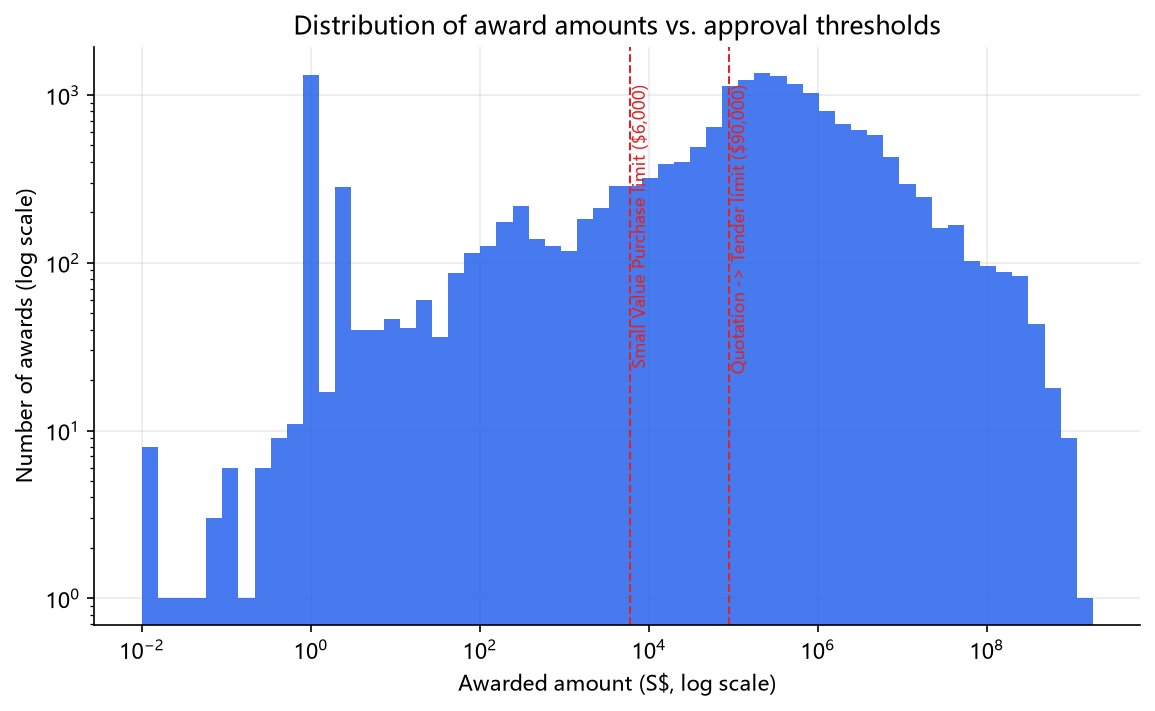
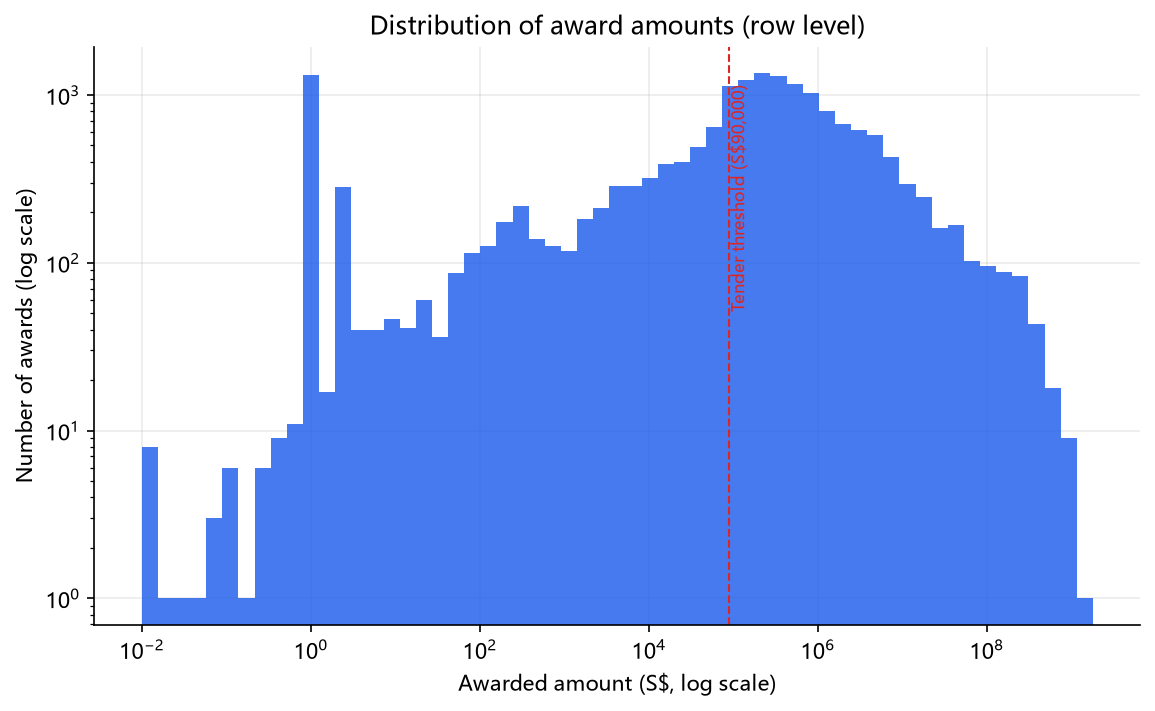
Redo threshold figure at tender level
Show row level and ETT tender level side by side around S$90,000, with
the +/-2% counts and one-sided binomial p-value in each panel title.
Drop the S$6,000 figure and reference line: the dataset contains only
tenders, so the small-value-purchase limit cannot be tested here.

Changed region(s): [[0.2494, 0.0, 0.8104, 0.0619], [0.5299, 0.1238, 0.561, 0.526], [0.6234, 0.2166, 0.6545, 0.526]]

diff --git a/src/make_figures.py b/src/make_figures.py
@@ -7,9 +7,11 @@ from pathlib import Path
 
 import matplotlib.pyplot as plt
 import numpy as np
+from matplotlib.ticker import FuncFormatter
 import pandas as pd
 
 from analysis import (
+    aggregate_by_tender,
     benford_test,
     BENFORD_EXPECTED,
     concentration_by_group,
@@ -23,7 +25,7 @@ ROOT = Path(__file__).resolve().parent.parent
 DATA_PATH = ROOT / "data" / "processed" / "gebiz_cleaned.csv"
 FIG_DIR = ROOT / "outputs" / "figures"
 
-THRESHOLDS = {"Small Value Purchase limit ($6,000)": 6000, "Quotation -> Tender limit ($90,000)": 90000}
+THRESHOLDS = {"Tender threshold (S$90,000)": 90000}
 
 
 def fig_concentration(df: pd.DataFrame) -> None:
@@ -52,22 +54,33 @@ def fig_amount_distribution(df: pd.DataFrame) -> None:
         ax.text(t, ax.get_ylim()[1] * 0.6, f" {label}", rotation=90, fontsize=8, color="#dc2626", va="top")
     ax.set_xlabel("Awarded amount (S$, log scale)")
     ax.set_ylabel("Number of awards (log scale)")
-    ax.set_title("Distribution of award amounts vs. approval thresholds")
+    ax.set_title("Distribution of award amounts (row level)")
     fig.savefig(FIG_DIR / "amount_distribution.png")
     plt.close(fig)
 
 
-def fig_threshold_zoom(df: pd.DataFrame, threshold: float, window_pct: float = 0.15, bin_width: float = 3000) -> None:
-    lo, hi = threshold * (1 - window_pct), threshold * (1 + window_pct)
-    vals = df.loc[(df["awarded_amt"] >= lo) & (df["awarded_amt"] <= hi), "awarded_amt"]
+def fig_threshold_zoom(df: pd.DataFrame, threshold: float = 90000, lo: float = 81000, hi: float = 99000, bin_width: float = 1000) -> None:
+    tenders = aggregate_by_tender(df)
+    panels = [
+        ("Row level (award line items)", df),
+        ("Tender level (ETT tenders, summed)", tenders[tenders["procurement_type"] == "ETT"]),
+    ]
     bins = np.arange(lo, hi + bin_width, bin_width)
-    fig, ax = plt.subplots()
-    ax.hist(vals, bins=bins, color="#2563eb", alpha=0.85, edgecolor="white")
-    ax.axvline(threshold, color="#dc2626", linestyle="--", linewidth=1.5, label=f"Threshold = S${threshold:,.0f}")
-    ax.set_xlabel("Awarded amount (S$)")
-    ax.set_ylabel("Number of awards")
-    ax.set_title(f"Award counts within +/-{int(window_pct*100)}% of the S${threshold:,.0f} threshold")
-    ax.legend()
+    fig, axes = plt.subplots(1, 2, figsize=(12, 4.8), layout="constrained")
+    for ax, (title, data) in zip(axes, panels):
+        vals = data.loc[(data["awarded_amt"] >= lo) & (data["awarded_amt"] < hi), "awarded_amt"]
+        ax.hist(vals, bins=bins, color="#2563eb", alpha=0.85, edgecolor="white")
+        ax.axvline(threshold, color="#dc2626", linestyle="--", linewidth=1.5)
+        w = threshold_window_counts(data, [threshold], window_pct=0.02).iloc[0]
+        ax.set_title(
+            f"{title}\n+/-2% window: {int(w.n_just_below)} below, {int(w.n_just_above)} above, one-sided p = {w.p_more_below:.3f}",
+            fontsize=10,
+        )
+        ax.set_xlabel(r"Awarded amount (S\$, S\$1,000 bins)")
+        ax.set_xticks(np.arange(lo + 1000, hi, 2000))
+        ax.xaxis.set_major_formatter(FuncFormatter(lambda x, _: f"{x / 1000:.0f}k"))
+    axes[0].set_ylabel("Count")
+    fig.suptitle(f"Awards near the S${threshold:,.0f} tender threshold (dashed line)", fontsize=12)
     fig.savefig(FIG_DIR / f"threshold_zoom_{int(threshold)}.png")
     plt.close(fig)
 
@@ -127,8 +140,7 @@ if __name__ == "__main__":
 
     fig_concentration(df)
     fig_amount_distribution(df)
-    fig_threshold_zoom(df, 90000, window_pct=0.10, bin_width=1000)
-    fig_threshold_zoom(df, 6000, window_pct=0.15, bin_width=200)
+    fig_threshold_zoom(df)
     fig_benford(df, min_amount=1000)
     fig_yearly_trend(df)
     fig_top_suppliers(df)
